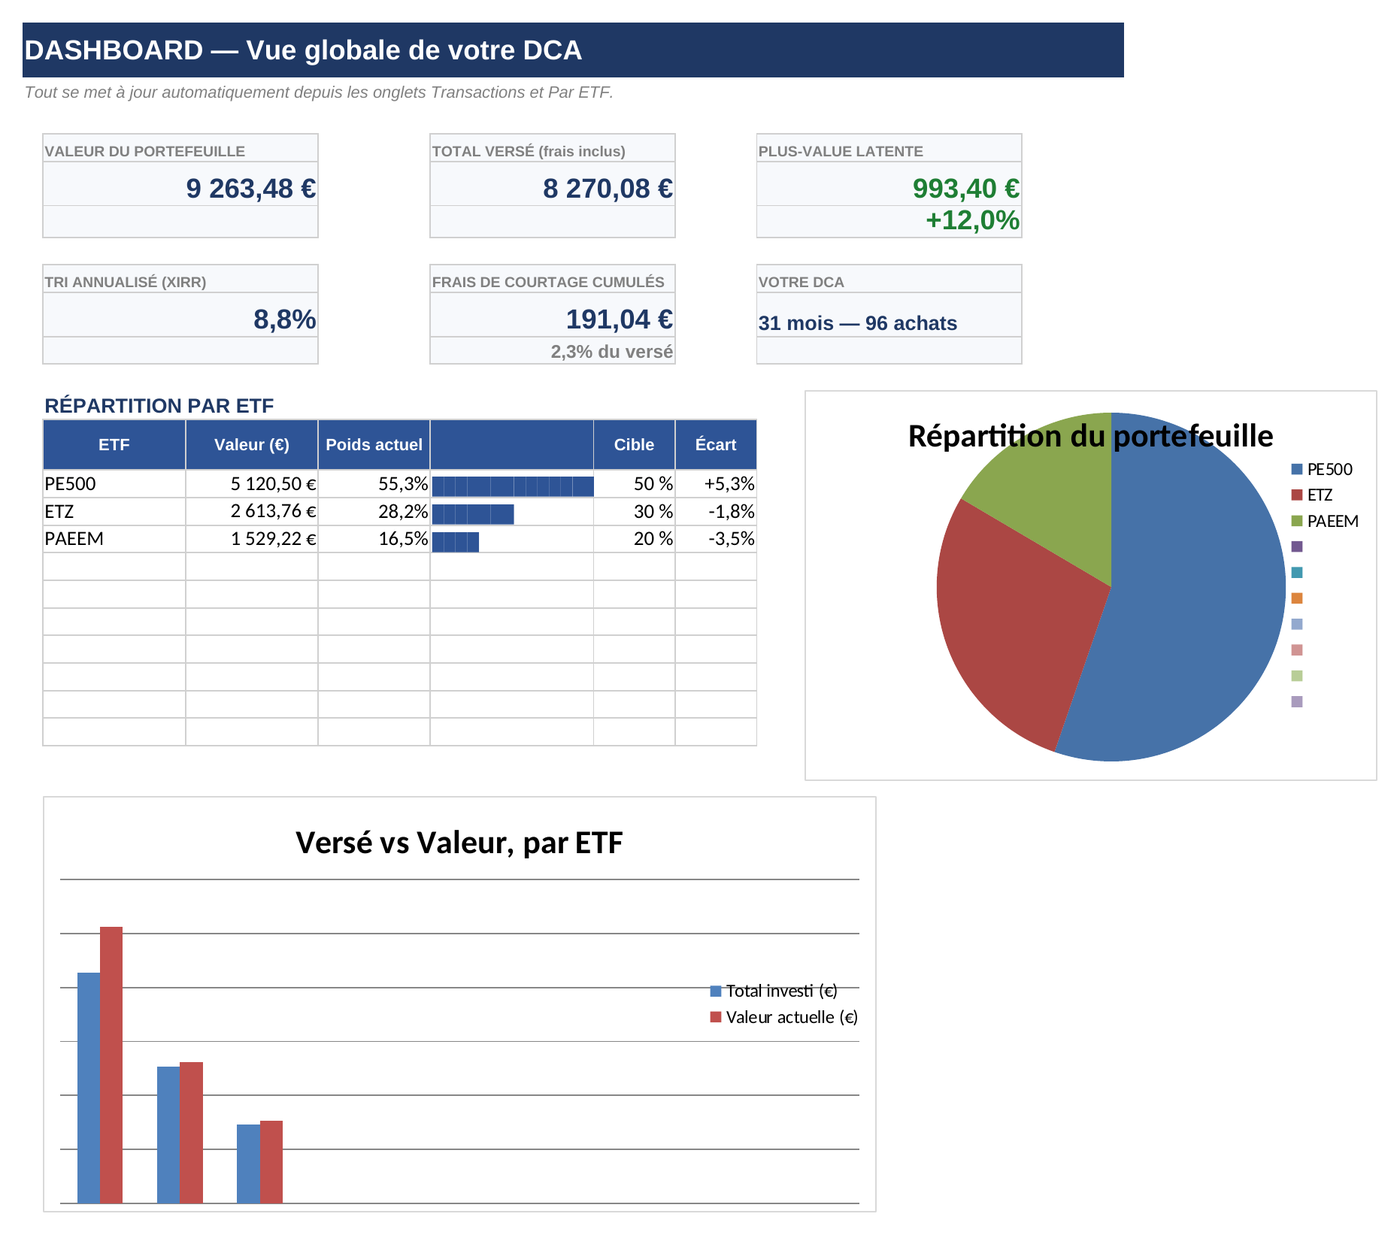
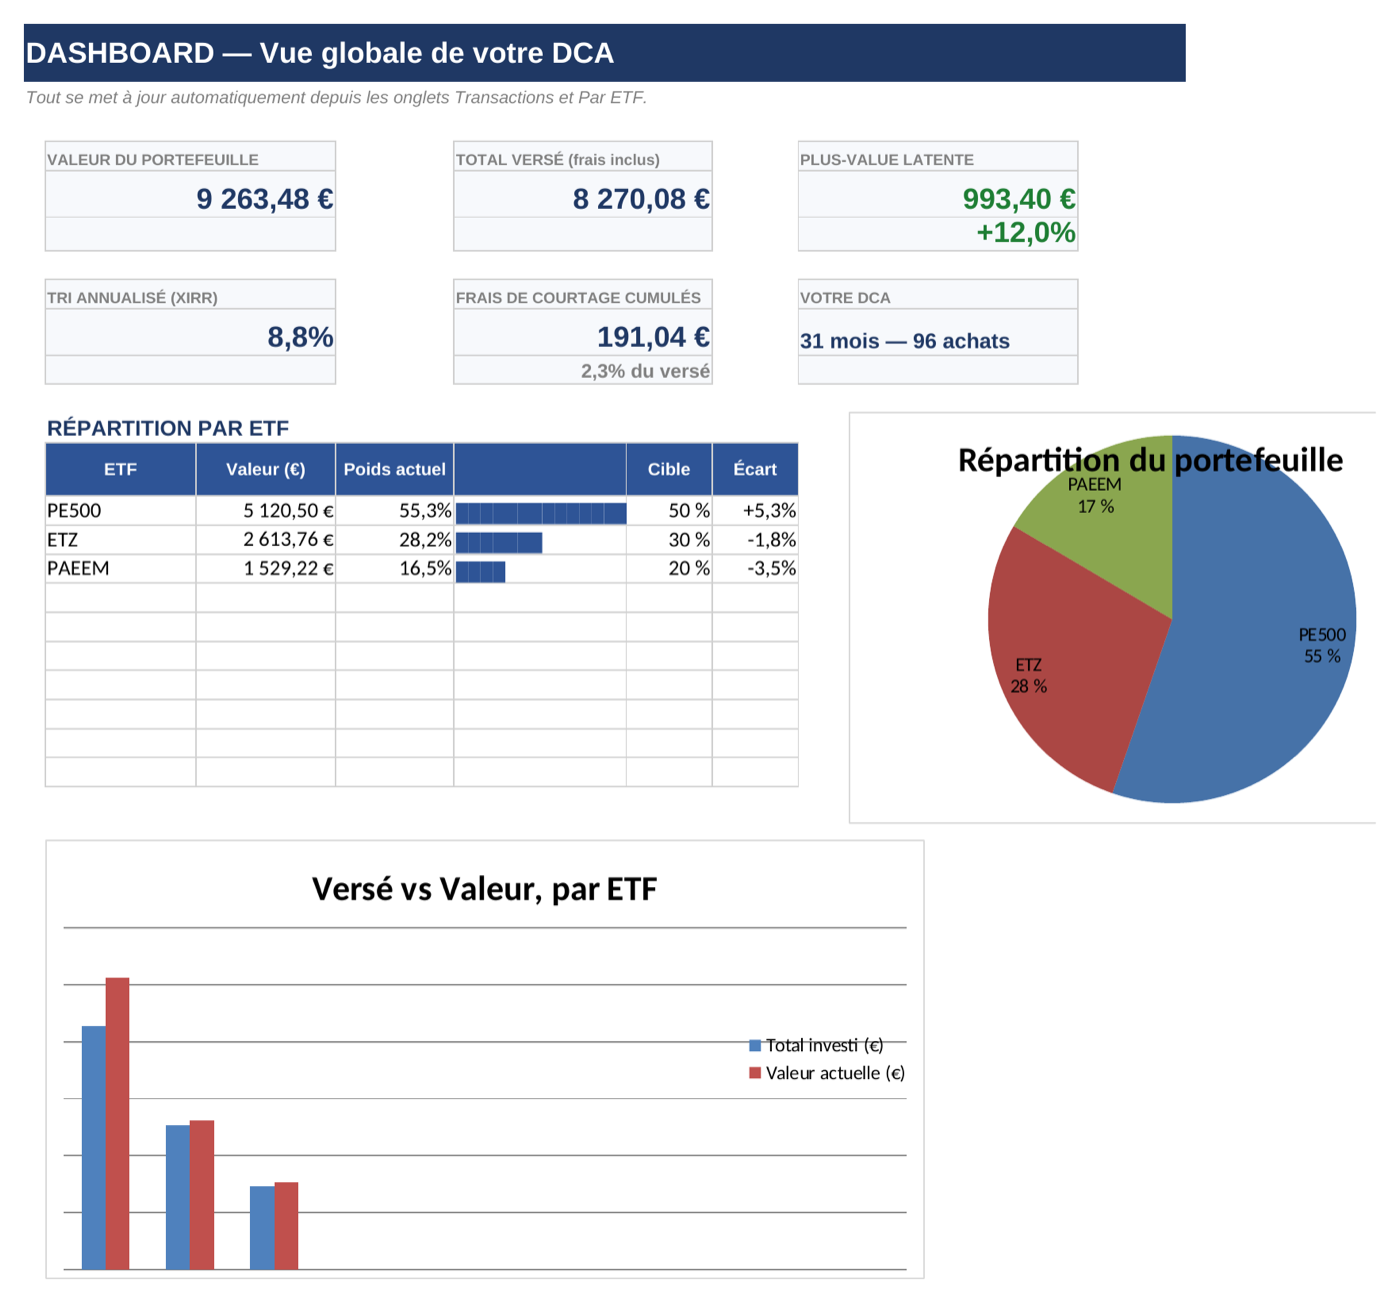
fix(produit): la capture du Dashboard montrait sept entrées de légende vides
Le camembert du fichier prévoit dix emplacements d'ETF ; un acheteur qui en a
trois voyait sept entrées vides dans la légende — et c'était la capture qui le
montrait sur la page de vente. La v1.2 supprime la légende et pose les libellés
sur les parts ; la capture est refaite dessus.

Les dimensions déclarées suivent : le nouveau rendu n'a pas le même rapport
d'aspect (1400×1303 contre 1400×1235), et Next réservait la mauvaise place.

Reste ouvert : les sept lignes vides dans les tableaux eux-mêmes, visibles sur
cette capture. Le correctif demande des bordures conditionnelles, que
LibreOffice rend mal — donc invérifiable sans Excel.

diff --git a/src/lib/products.ts b/src/lib/products.ts
@@ -89,7 +89,7 @@ const TEMPLATE: Product = {
       src: "/produits/cockpit-dashboard.png",
       alt: "Tableau de bord du Cockpit : valeur du portefeuille, plus-value, TRI annualisé, frais de courtage cumulés et répartition par ETF",
       width: 1400,
-      height: 1235,
+      height: 1303,
     },
   ],
   slug: "template-suivi-dca",
